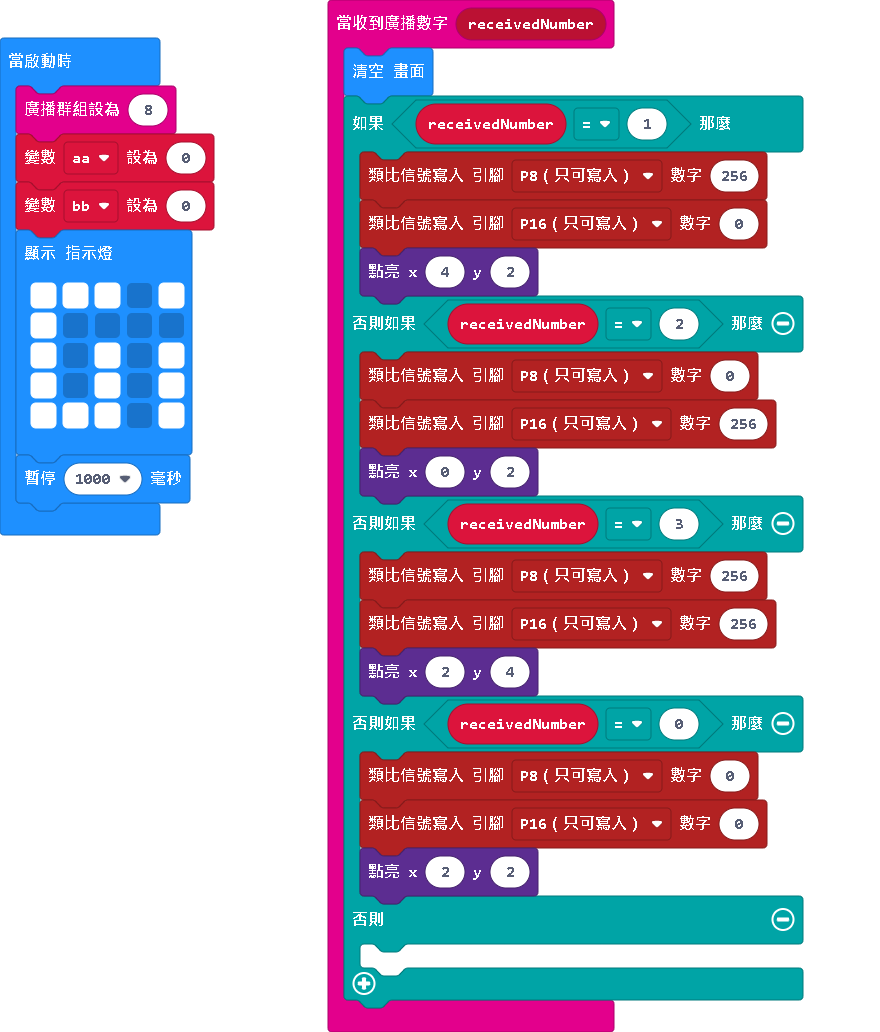
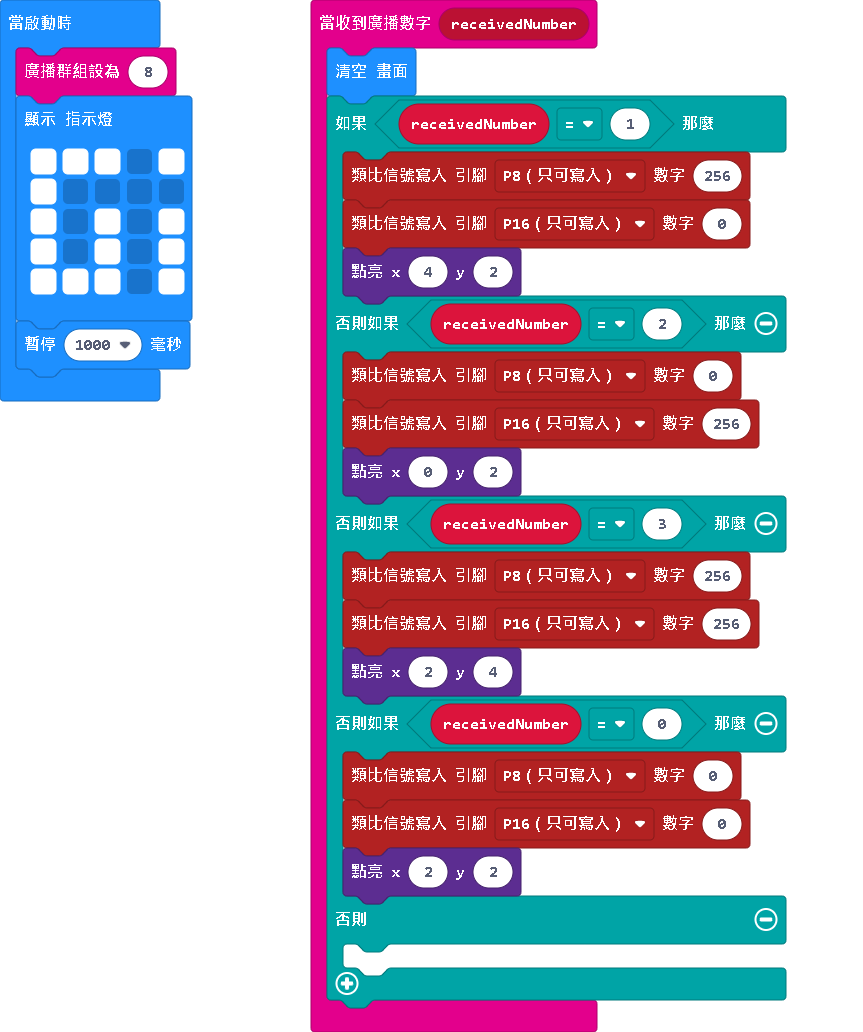
更新 main.blocks, main.ts

diff --git a/main.ts b/main.ts
@@ -21,8 +21,6 @@ radio.onReceivedNumber(function (receivedNumber) {
     }
 })
 radio.setGroup(8)
-let aa = 0
-let bb = 0
 basic.showLeds(`
     # # # . #
     # . . . .
